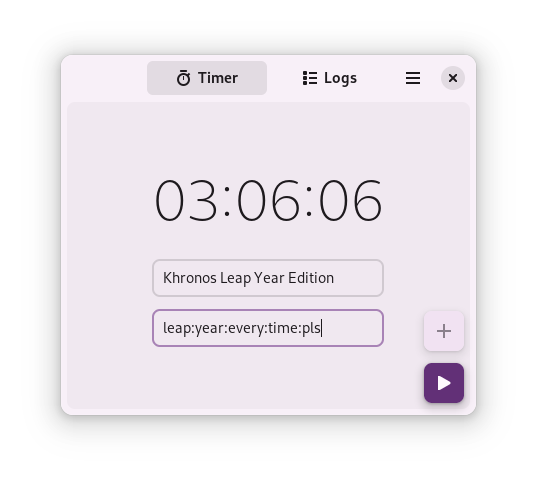
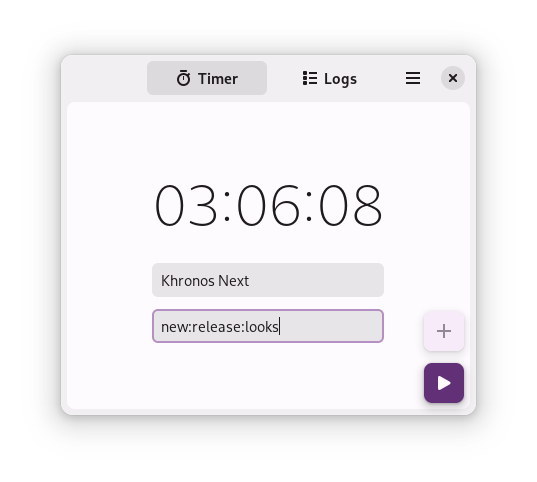
3.6.8 - UI changes

diff --git a/data/style.css b/data/style.css
@@ -1,12 +1,12 @@
-@define-color accent_color @purple_4;
+@define-color accent_color #813d9c;
 @define-color accent_bg_color #623077;
 @define-color accent_fg_color #fefafe;
 @define-color accent_secondary_bg_color #f2dcf4;
 @define-color accent_secondary_fg_color #241728;
-@define-color window_bg_color #f8f0f8;
-@define-color view_bg_color #f0e8f0;
-@define-color headerbar_bg_color #f8f0f8;
-@define-color popover_bg_color #f0e8f0;
+@define-color window_bg_color #f2eff3;
+@define-color view_bg_color #fefbff;
+@define-color headerbar_bg_color #f2eff3;
+@define-color popover_bg_color #fefbff;
 @define-color popover_fg_color #1e1a1e;
 @define-color window_fg_color #1e1a1e;
 @define-color view_fg_color #1e1a1e;
@@ -78,24 +78,21 @@ headerbar {
 }
 
 .content-sidebar row {
-  border-bottom: 1px solid @borders;
+  background: mix(@view_bg_color,#151515,0.05);
+  border-radius: 8px;
+  margin: 6px;
+  margin-top: 3px;
 }
-.content-sidebar row:last-child {
-  border-bottom: none;
+.content-sidebar row:first-child {
+  margin-top: 6px;
 }
 
 .content {
   box-shadow: none;
   margin: 0;
 }
-.log-entry {
-  border: 2px solid @borders;
-  background: none;
-  border-radius: 8px;
-}
 .kh-tag {
-  background: shade(@view_bg_color,0.95);
-  border: 1px solid @borders;
+  background: mix(@view_bg_color,#151515,0.12);
   border-radius: 8px;
   padding: 8px;
 }

diff --git a/data/style-dark.css b/data/style-dark.css
@@ -19,3 +19,10 @@
 .list-action-button.destructive-action:active {
   background: shade(#ffb4a9, 0.9);
 }
+
+.content-sidebar row {
+  background: mix(@view_bg_color,#fff,0.05);
+}
+.kh-tag {
+  background: mix(@view_bg_color,#fff,0.12);
+}

diff --git a/data/style-hc.css b/data/style-hc.css
@@ -1,0 +1,14 @@
+.content-sidebar {
+  border: 1px solid @borders;
+}
+.content-sidebar row {
+  border: 1px solid @borders;
+}
+
+.list-action-button {
+  border: 1px solid @borders;
+}
+
+.kh-tag {
+  border: 1px solid @borders;
+}
